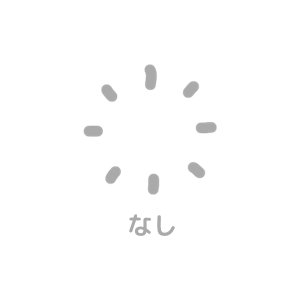
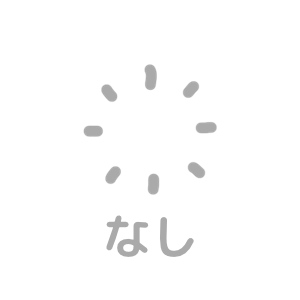
アイテム購入画像のシルエット追加

Changed region(s): [[0.33, 0.72, 0.66, 0.87]]

diff --git a/pages/mofu.jsx b/pages/mofu.jsx
@@ -186,32 +186,35 @@ export default function Mofu() {
                         opacity: unlocked ? 1 : 0.6,
                       }}
                     >
+
                       {/* アイテム画像 */}
                       <div style={{ position: "relative", marginBottom: "8px" }}>
-                        <img
-                          src={`/images/avatars/${item.file_name}`}
-                          alt={item.item_id}
-                          style={{
-                            width: "100%",
-                            borderRadius: "10px",
-                            filter: unlocked ? "none" : "grayscale(100%)",
-                          }}
-                        />
-                        {/* 購入済みバッジ */}
-                        {purchased && (
+                        {/* シルエット（アバターカテゴリのときは表示しない） */}
+                        {category !== "avatar" && (
                           <img
-                            src="/images/avatars/purchased.png"
-                            alt="購入済"
+                            src="/images/avatars/silhouette.png"
+                            alt=""
                             style={{
                               position: "absolute",
                               top: 0,
                               left: 0,
                               width: "100%",
-                              height: "100%",
                               borderRadius: "10px",
+                              filter: unlocked ? "none" : "grayscale(100%)",
                             }}
                           />
                         )}
+                        {/* アイテム本体（シルエットの上に重ねる） */}
+                        <img
+                          src={`/images/avatars/${item.file_name}`}
+                          alt={item.item_id}
+                          style={{
+                            position: "relative",
+                            width: "100%",
+                            borderRadius: "10px",
+                            filter: unlocked ? "none" : "grayscale(100%)",
+                          }}
+                        />
                       </div>
 
                       {/* 解放条件 or モフ数 or 購入済み */}
